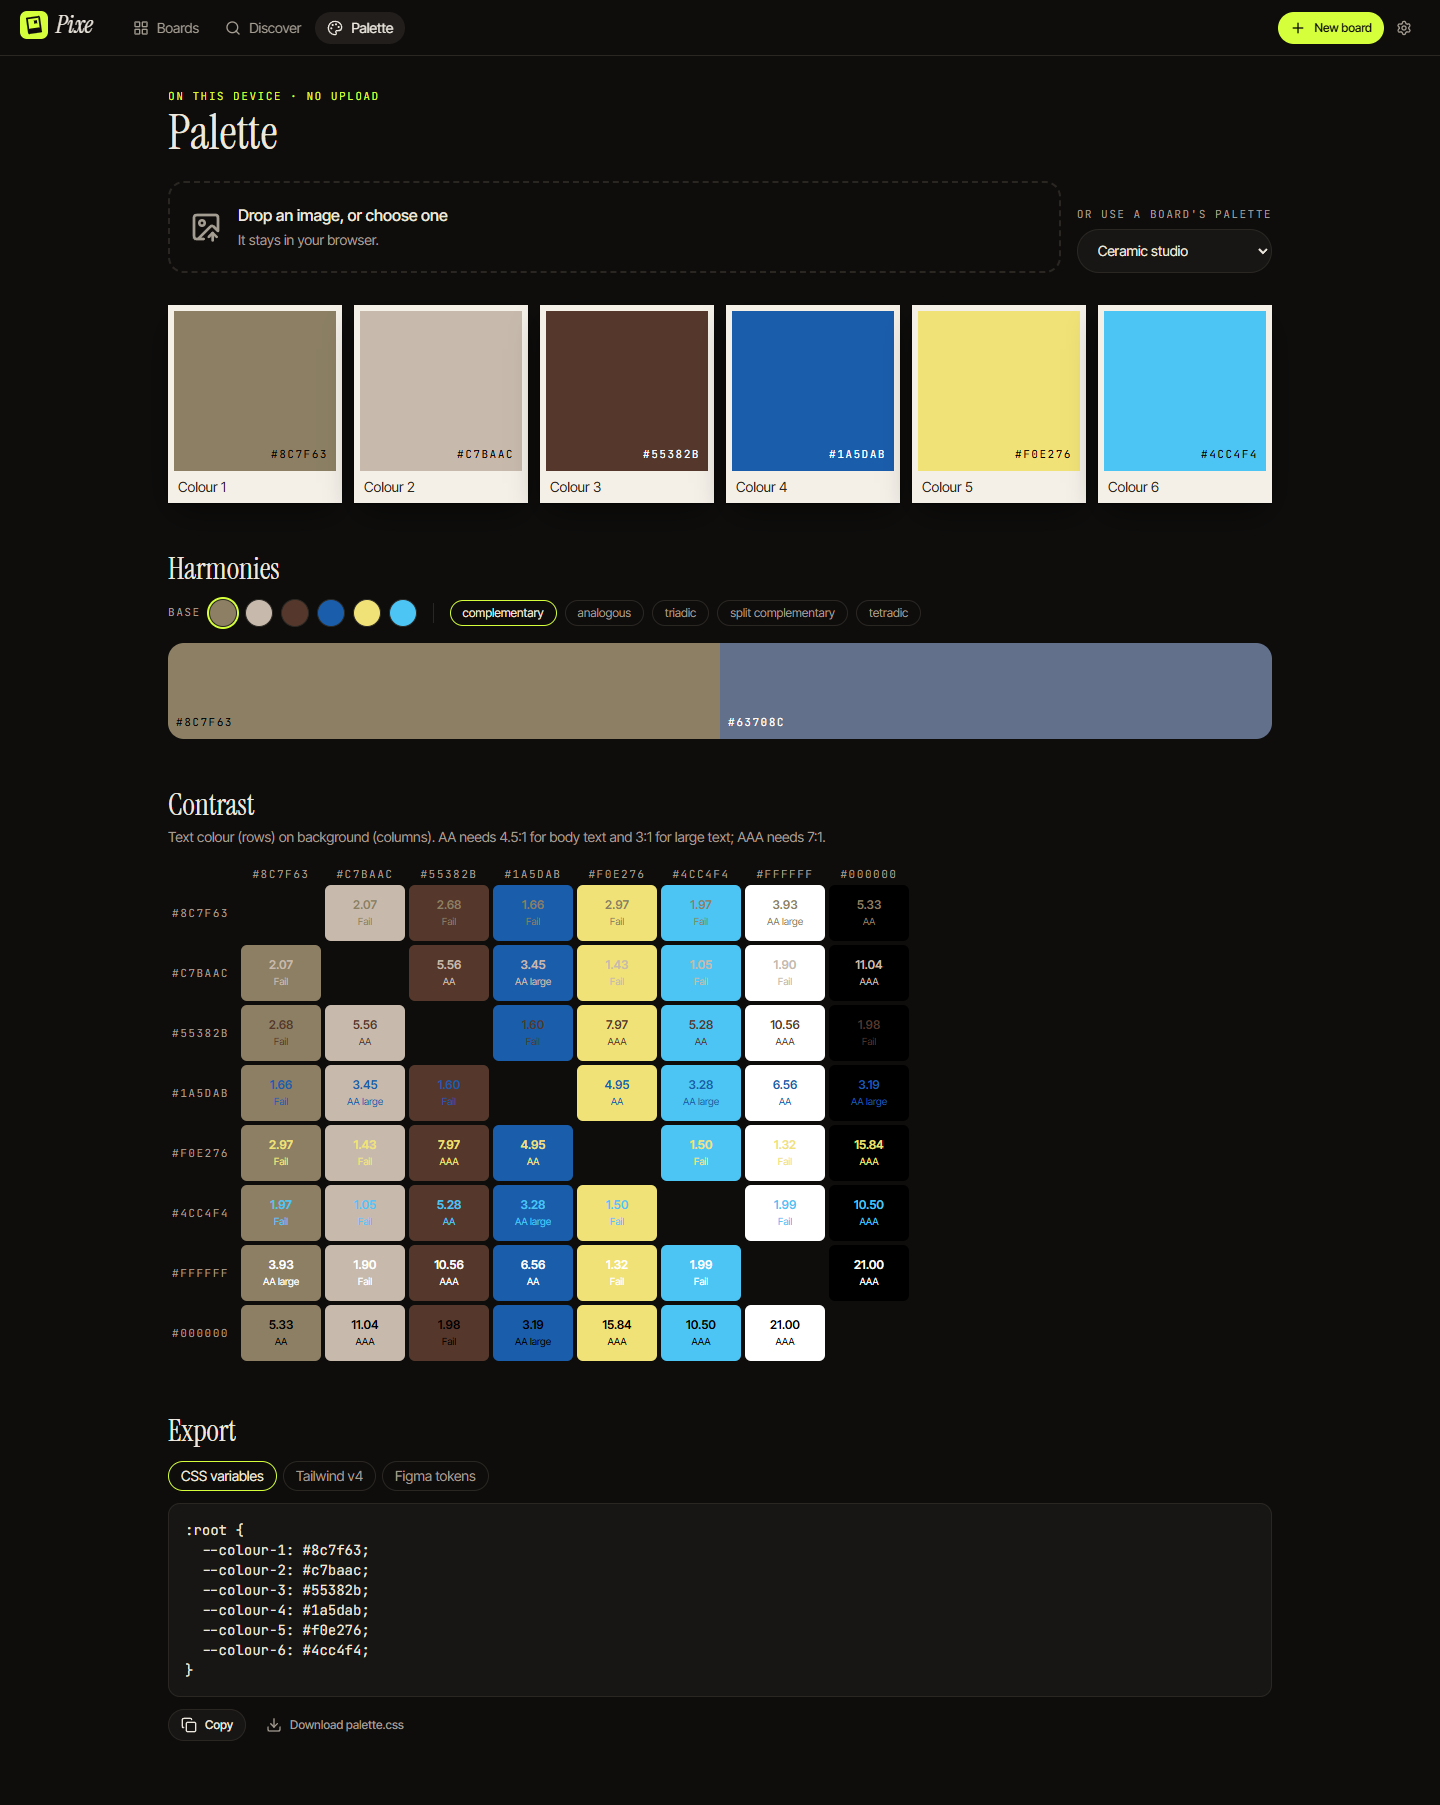
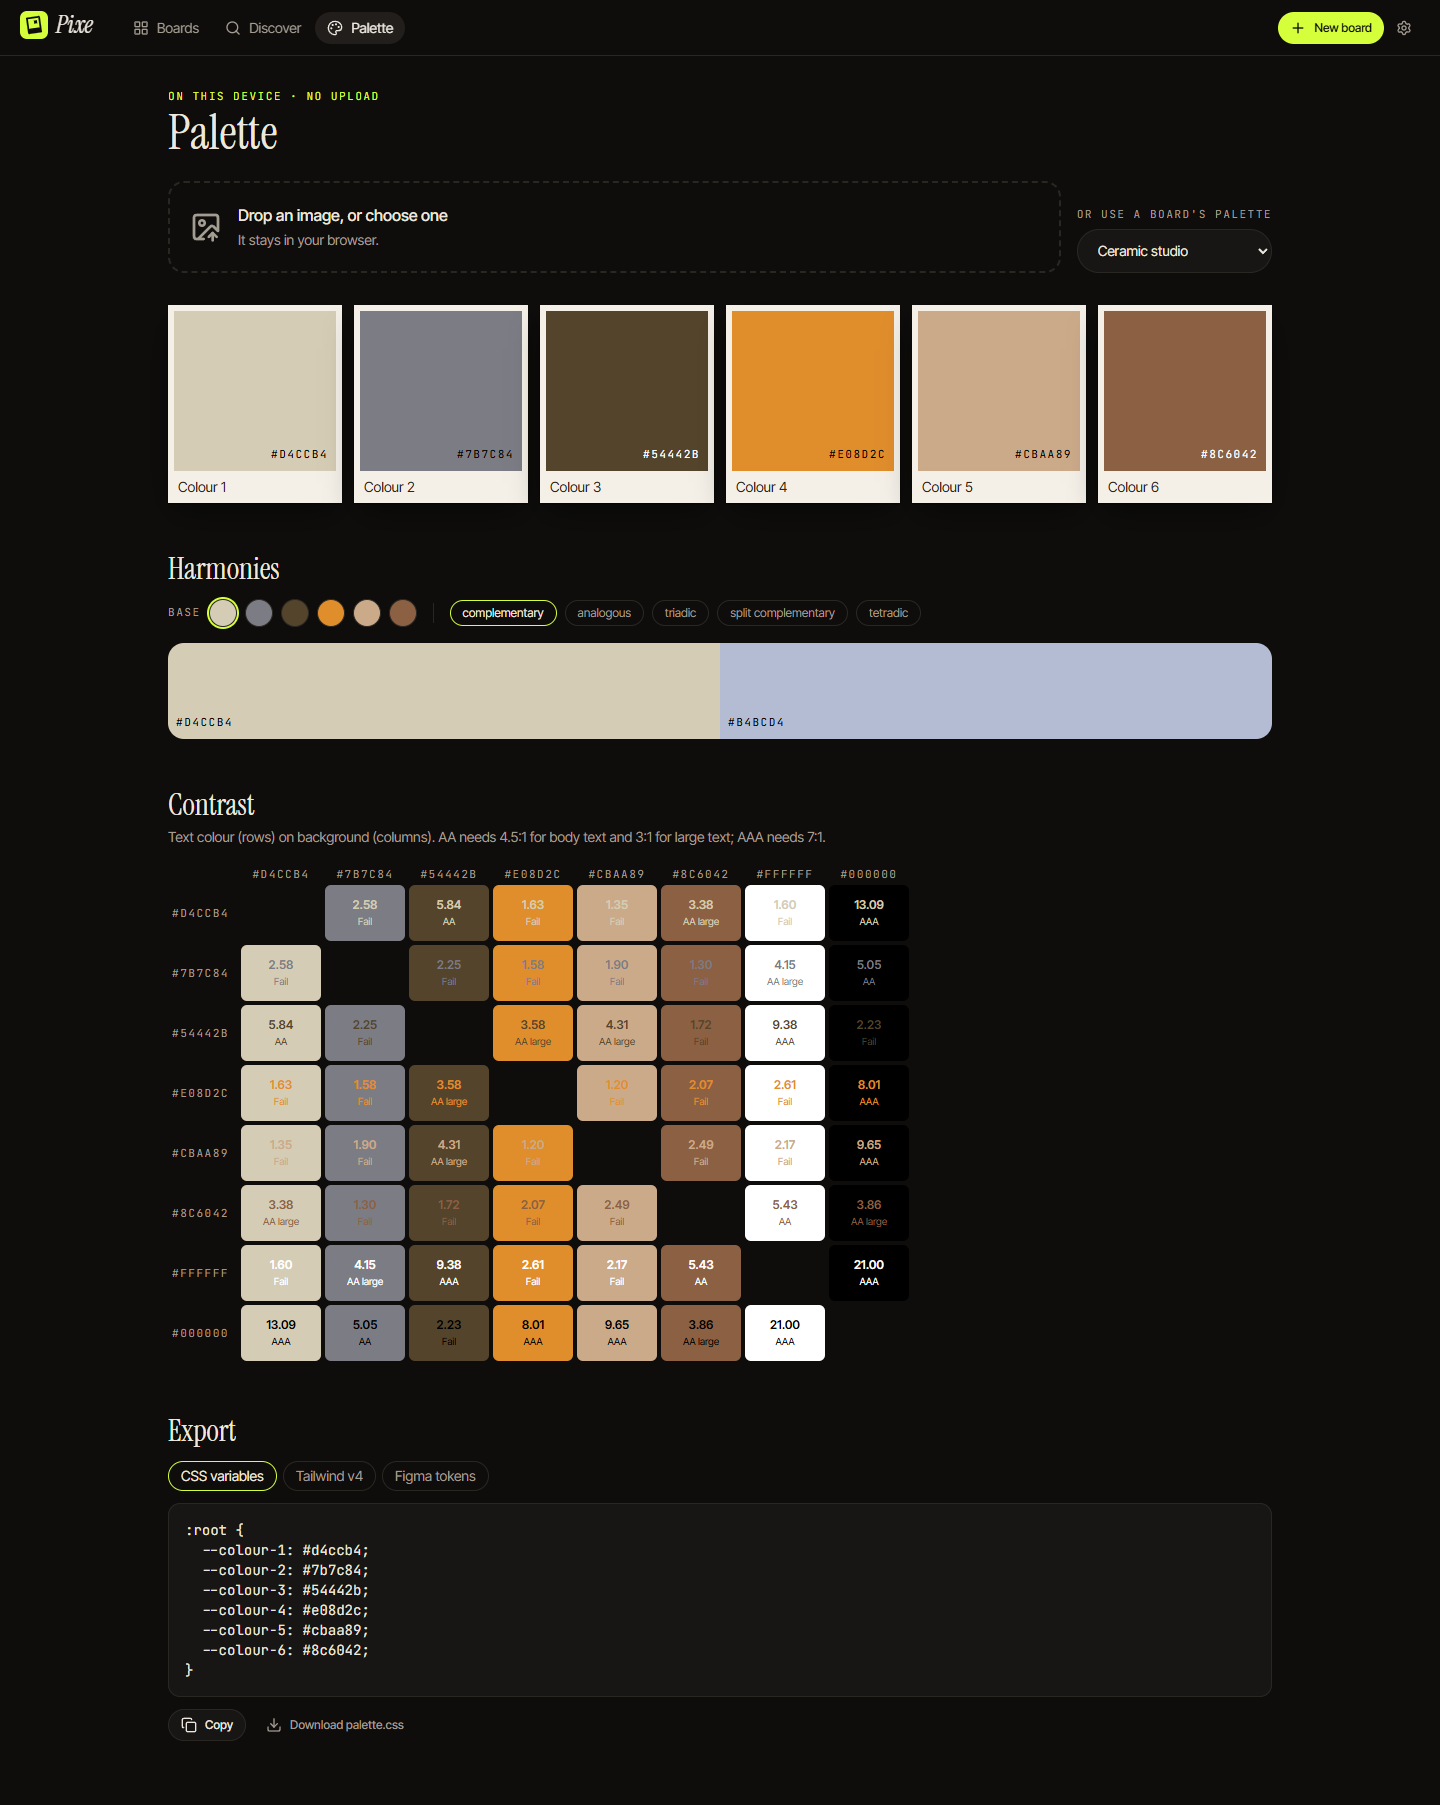
Give photo tiles a fixed caption height so the virtual masonry never reshuffles; add the board screenshots
Measuring tiles after render moved them between columns and left gaps.

diff --git a/src/components/PhotoGrid.tsx b/src/components/PhotoGrid.tsx
@@ -42,7 +42,9 @@ export function PhotoGrid({
 
   const gap = 12
   const colWidth = width ? (width - gap * (columns - 1)) / columns : 200
-  const caption = 64
+  // Every tile's height is known from its aspect ratio plus a fixed caption, so nothing is measured
+  // after render and the columns never reshuffle.
+  const caption = 40
 
   // eslint-disable-next-line react-hooks/incompatible-library -- TanStack Virtual returns fresh functions by design
   const virtualizer = useVirtualizer({
@@ -78,8 +80,6 @@ export function PhotoGrid({
           return (
             <li
               key={p.id}
-              ref={virtualizer.measureElement}
-              data-index={v.index}
               className="absolute top-0"
               style={{
                 width: colWidth,
@@ -163,7 +163,7 @@ function PhotoTile({
           )}
         </div>
       </div>
-      <figcaption className="mt-1.5">
+      <figcaption className="mt-1.5 h-[34px] overflow-hidden">
         <Credit photo={photo} className="line-clamp-2 text-[11px] leading-snug" />
       </figcaption>
     </figure>

diff --git a/README.md b/README.md
@@ -164,7 +164,7 @@ npm test
 npm run e2e
 ```
 
-Node 24. Copy `.env.example` to `.env` and point `VITE_API_URL` at a running [ew-apps-api](https://github.com/emwil23/ew-apps-api) (with `UNSPLASH_ACCESS_KEY` and `PEXELS_API_KEY` in its own `.env`; Openverse needs no key). Without an API the app still opens and keeps your boards, but can't search. `npm run build` also prerenders the public pages, so it needs Playwright's Chromium (`npx playwright install chromium`). `npm run e2e` builds against a made-up API host and answers every search and image itself, so it needs no keys or network; it runs the flows and axe on every page in both themes. CI adds lint, typecheck and Lighthouse (≥ 0.95 in every category).
+Node 24. Copy `.env.example` to `.env` and point `VITE_API_URL` at a running [ew-apps-api](https://github.com/emwil23/ew-apps-api) (with `UNSPLASH_ACCESS_KEY` and `PEXELS_API_KEY` in its own `.env`; Openverse needs no key). Pexels has paused new API keys for now; a source without a key reports itself unavailable and Pixe searches the others. Without an API the app still opens and keeps your boards, but can't search. `npm run build` also prerenders the public pages, so it needs Playwright's Chromium (`npx playwright install chromium`). `npm run e2e` builds against a made-up API host and answers every search and image itself, so it needs no keys or network; it runs the flows and axe on every page in both themes. CI adds lint, typecheck and Lighthouse (≥ 0.95 in every category).
 
 `node scripts/screenshots.mjs` retakes the pictures in `docs/` with real searches, against a build served on an origin the API allows.
 
